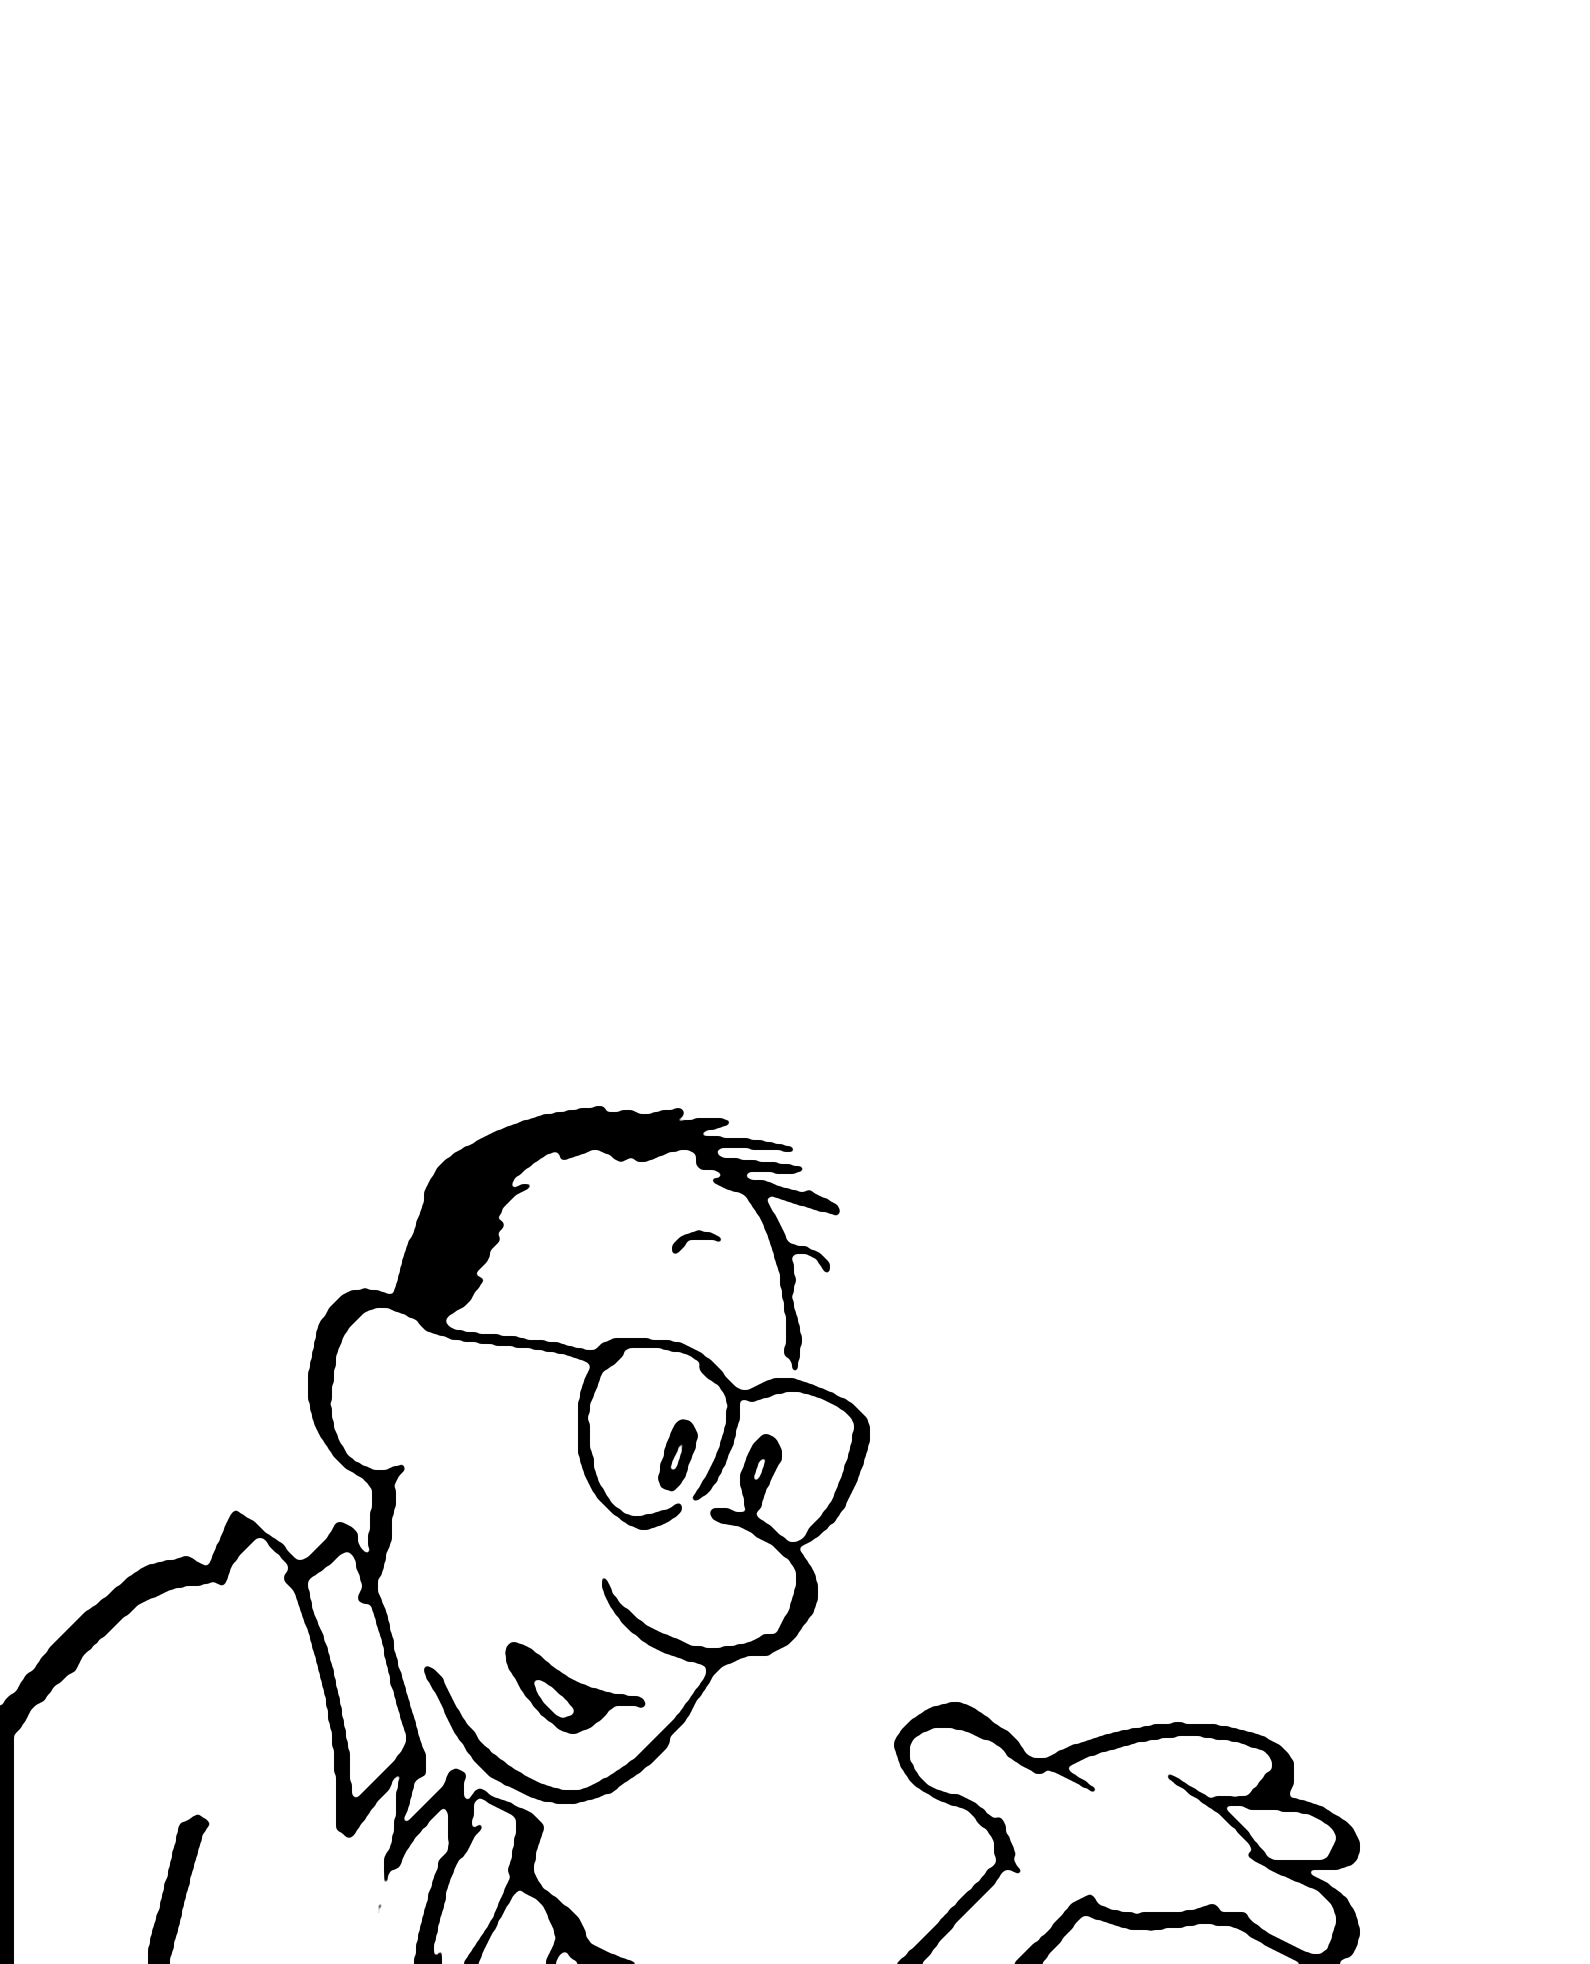
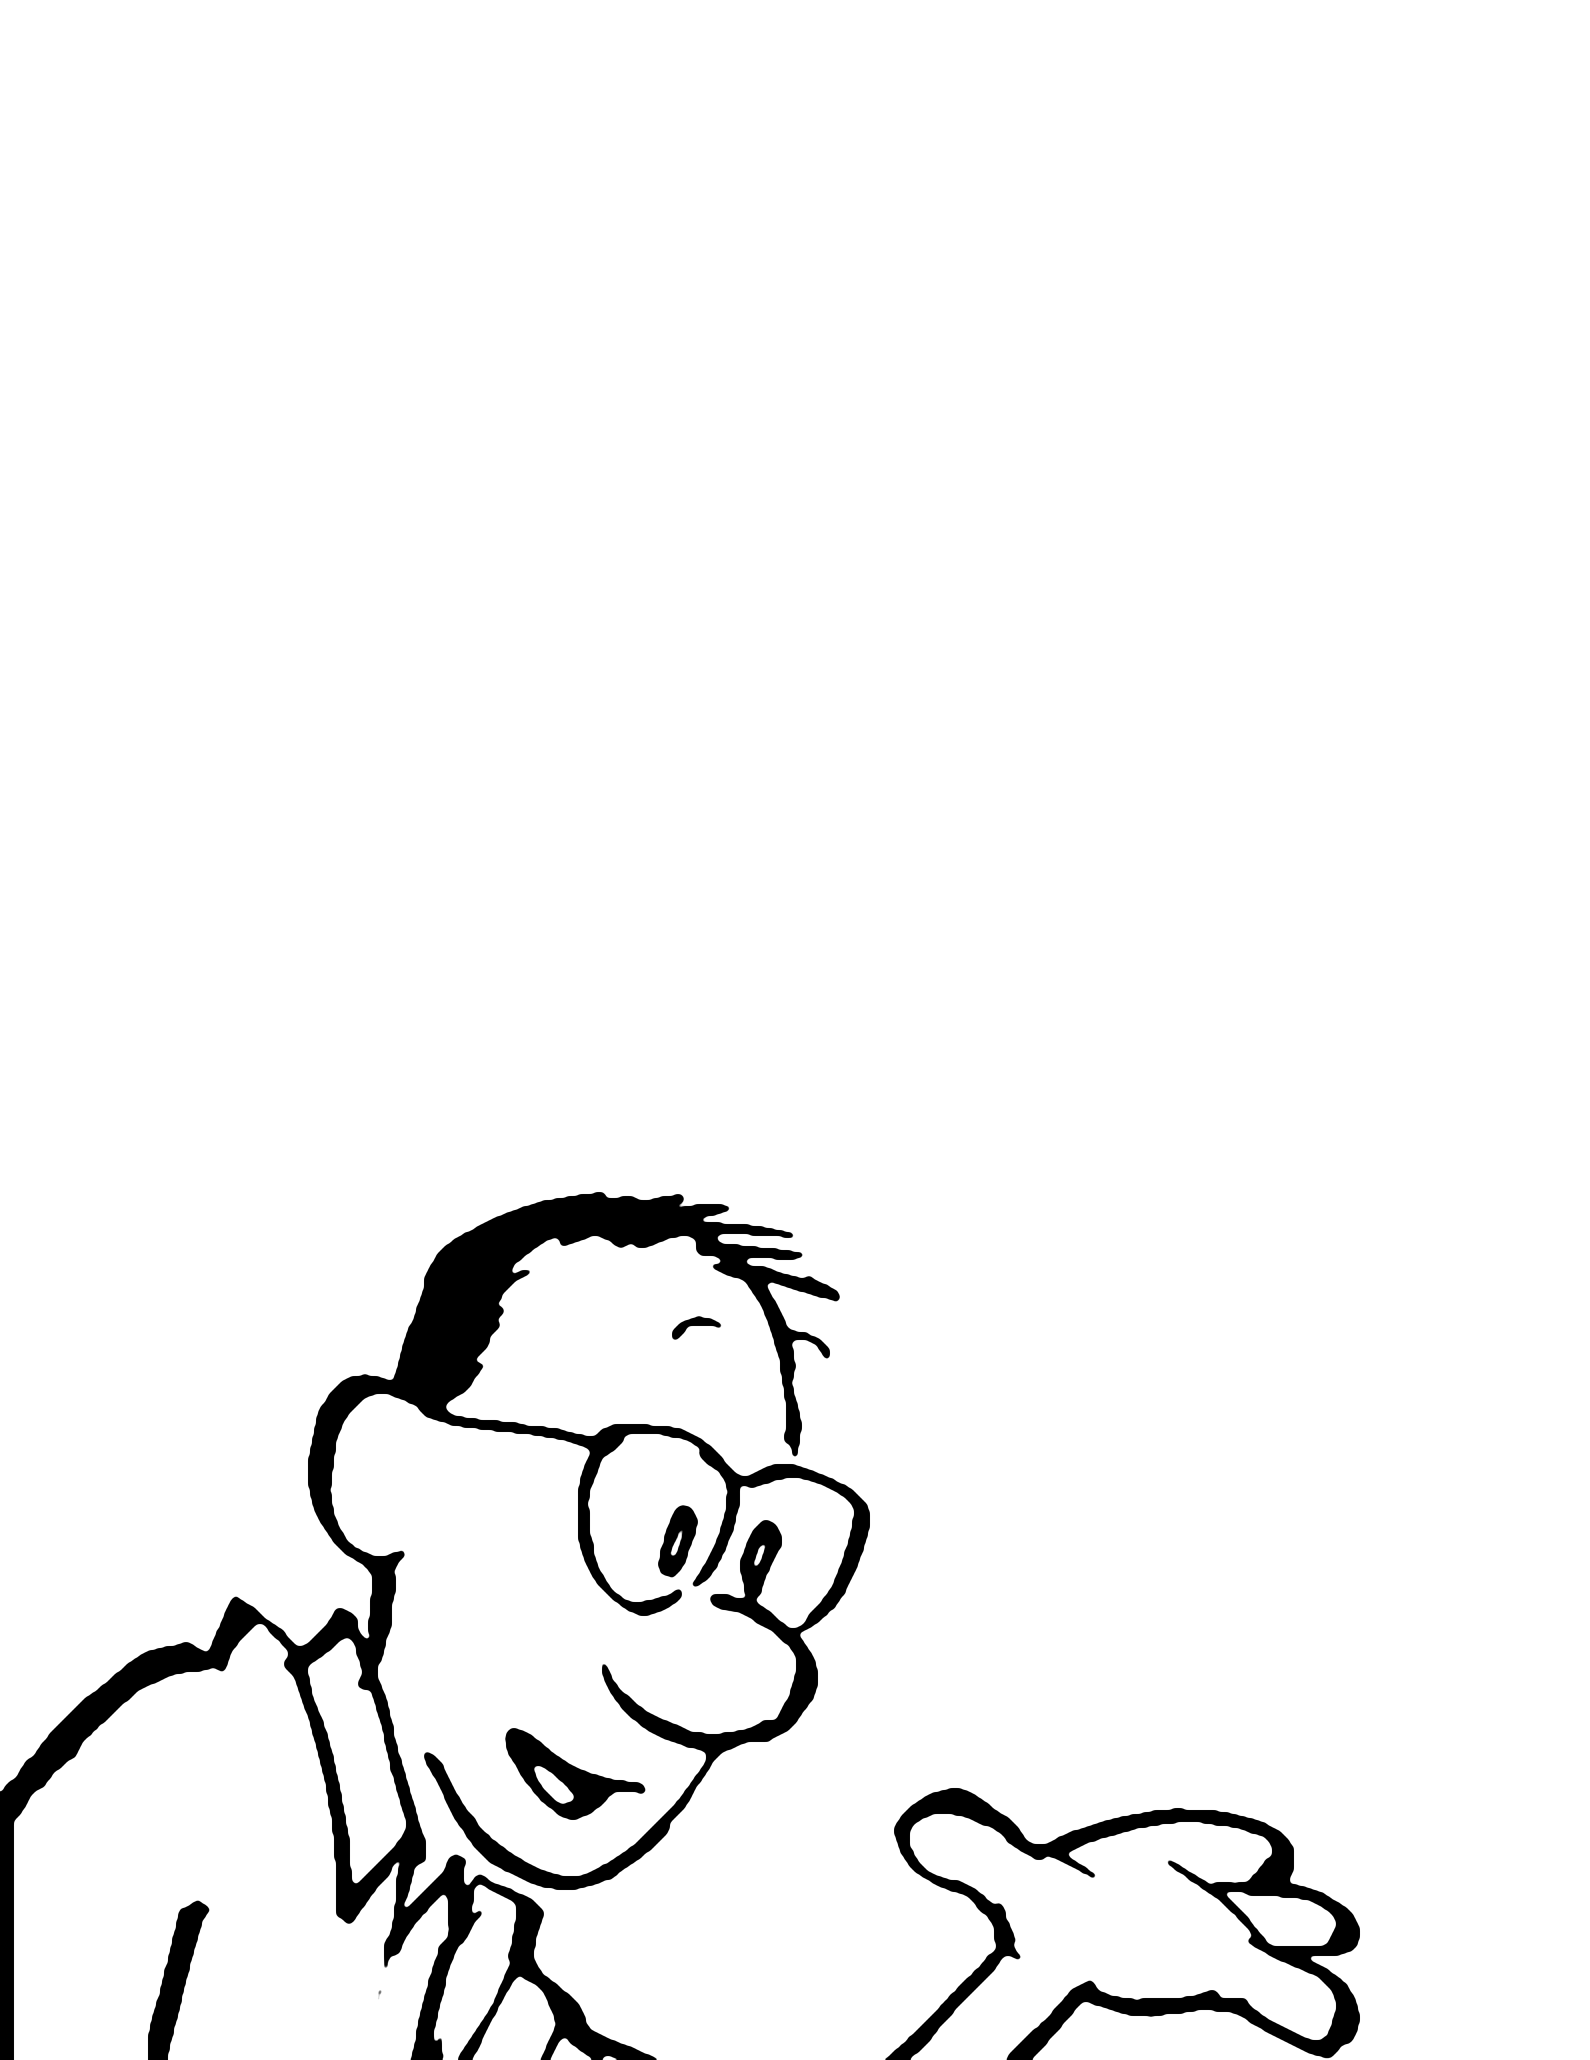
Crop panels at their real top borders
The row of dark pixels taken for the panels' top border was actually the
first line of lettering, so every panel was cut about 50px too low,
slicing off the top of Dad's head in panel 1. Use the real borders and
drop the workaround that assumed his head broke through the border.
Crop the night panel inside its solid black so no light edge shows when
the panel grows.

diff --git a/tools/build_assets.py b/tools/build_assets.py
@@ -33,23 +33,18 @@ GRID_SCALE = 0.5
 # black right to its edge).
 PANELS = [
     {
-        "box": (60, 1920, 881, 2902),
+        "box": (60, 1870, 881, 2906),
         # Dad's balloon and lettering. Only ink lying entirely inside these
         # regions is erased, so artwork that pokes into them survives.
-        "erase": [[(320, 1876), (881, 1876), (881, 2310), (320, 2310)]],
+        "erase": [[(320, 1870), (881, 1870), (881, 2310), (320, 2310)]],
         "speakers": {"dad": (270, 2065)},
         "text_bottom": 2520,
-        # Dad's head pokes up through the top border, so take the art from
-        # above it and remove the border on either side of his head.
-        "art_top": 1876,
-        "wipe": [[(60, 1876), (160, 1876), (160, 1921), (60, 1921)],
-                 [(330, 1876), (881, 1876), (881, 1921), (330, 1921)]],
     },
     {
-        "box": (924, 1920, 1720, 2902),
+        "box": (924, 1877, 1720, 2907),
         # Both balloons and their lettering, steering around Dad's head and
         # Calvin's hair.
-        "erase": [[(924, 1920), (1720, 1920), (1720, 2545), (1612, 2545),
+        "erase": [[(924, 1877), (1720, 1877), (1720, 2545), (1612, 2545),
                    (1602, 2588), (1518, 2592), (1500, 2640), (1318, 2640),
                    (1318, 2420), (1310, 2280), (924, 2270)]],
         # Dad's balloon outline runs into his hair, which would make it part
@@ -65,14 +60,15 @@ PANELS = [
         "calvin_region": (1330, 2390, 1600, 2600),
     },
     {
-        "box": (1755, 1920, 2550, 2902),
-        "erase": [[(1755, 1920), (2550, 1920), (2550, 2620), (2220, 2620),
+        "box": (1755, 1877, 2550, 2907),
+        "erase": [[(1755, 1877), (2550, 1877), (2550, 2620), (2220, 2620),
                    (2220, 2460), (1755, 2460)]],
         "speakers": {"dad": (2010, 2770)},
         "text_bottom": 2600,
     },
     {
-        "box": (2581, 1911, 3380, 2913),
+        # Inside the edges of the black, where it's solid.
+        "box": (2588, 1890, 3376, 2911),
         "erase": [],
         "speakers": {},
         "text_bottom": None,
@@ -192,7 +188,6 @@ def main():
     lettering = []
     for number, panel in enumerate(PANELS, start=1):
         x0, y0, x1, y1 = panel["box"]
-        y0 = panel.get("art_top", y0)
 
         def local(points):
             return [((x - x0), (y - y0)) for x, y in points]

diff --git a/README.md b/README.md
@@ -29,9 +29,7 @@ Everything is static. On GitHub, enable Pages for the repository with
   panels from the scan's 1-bit ink layer, erases the lettering and balloons,
   smooths away the scan's pixelation, and records where text may go
   (`free`), where balloon tails may go (`open`) and how big Watterson's
-  lettering is (`capHeight`) in `assets/panels.json`. Dad's head pokes up
-  through panel 1's top border, so that panel's art starts above the border.
-  Large solid blacks (Dad's trousers, the night in panel 4) are only in the
+  lettering is (`capHeight`) in `assets/panels.json`. Large solid blacks (Dad's trousers, the night in panel 4) are only in the
   scan's low resolution background layer, so they're merged in from there.
 - The default lettering, Dad Lettering (`assets/fonts/dad-lettering.woff2`),
   is built from Watterson's own lettering; see below.
